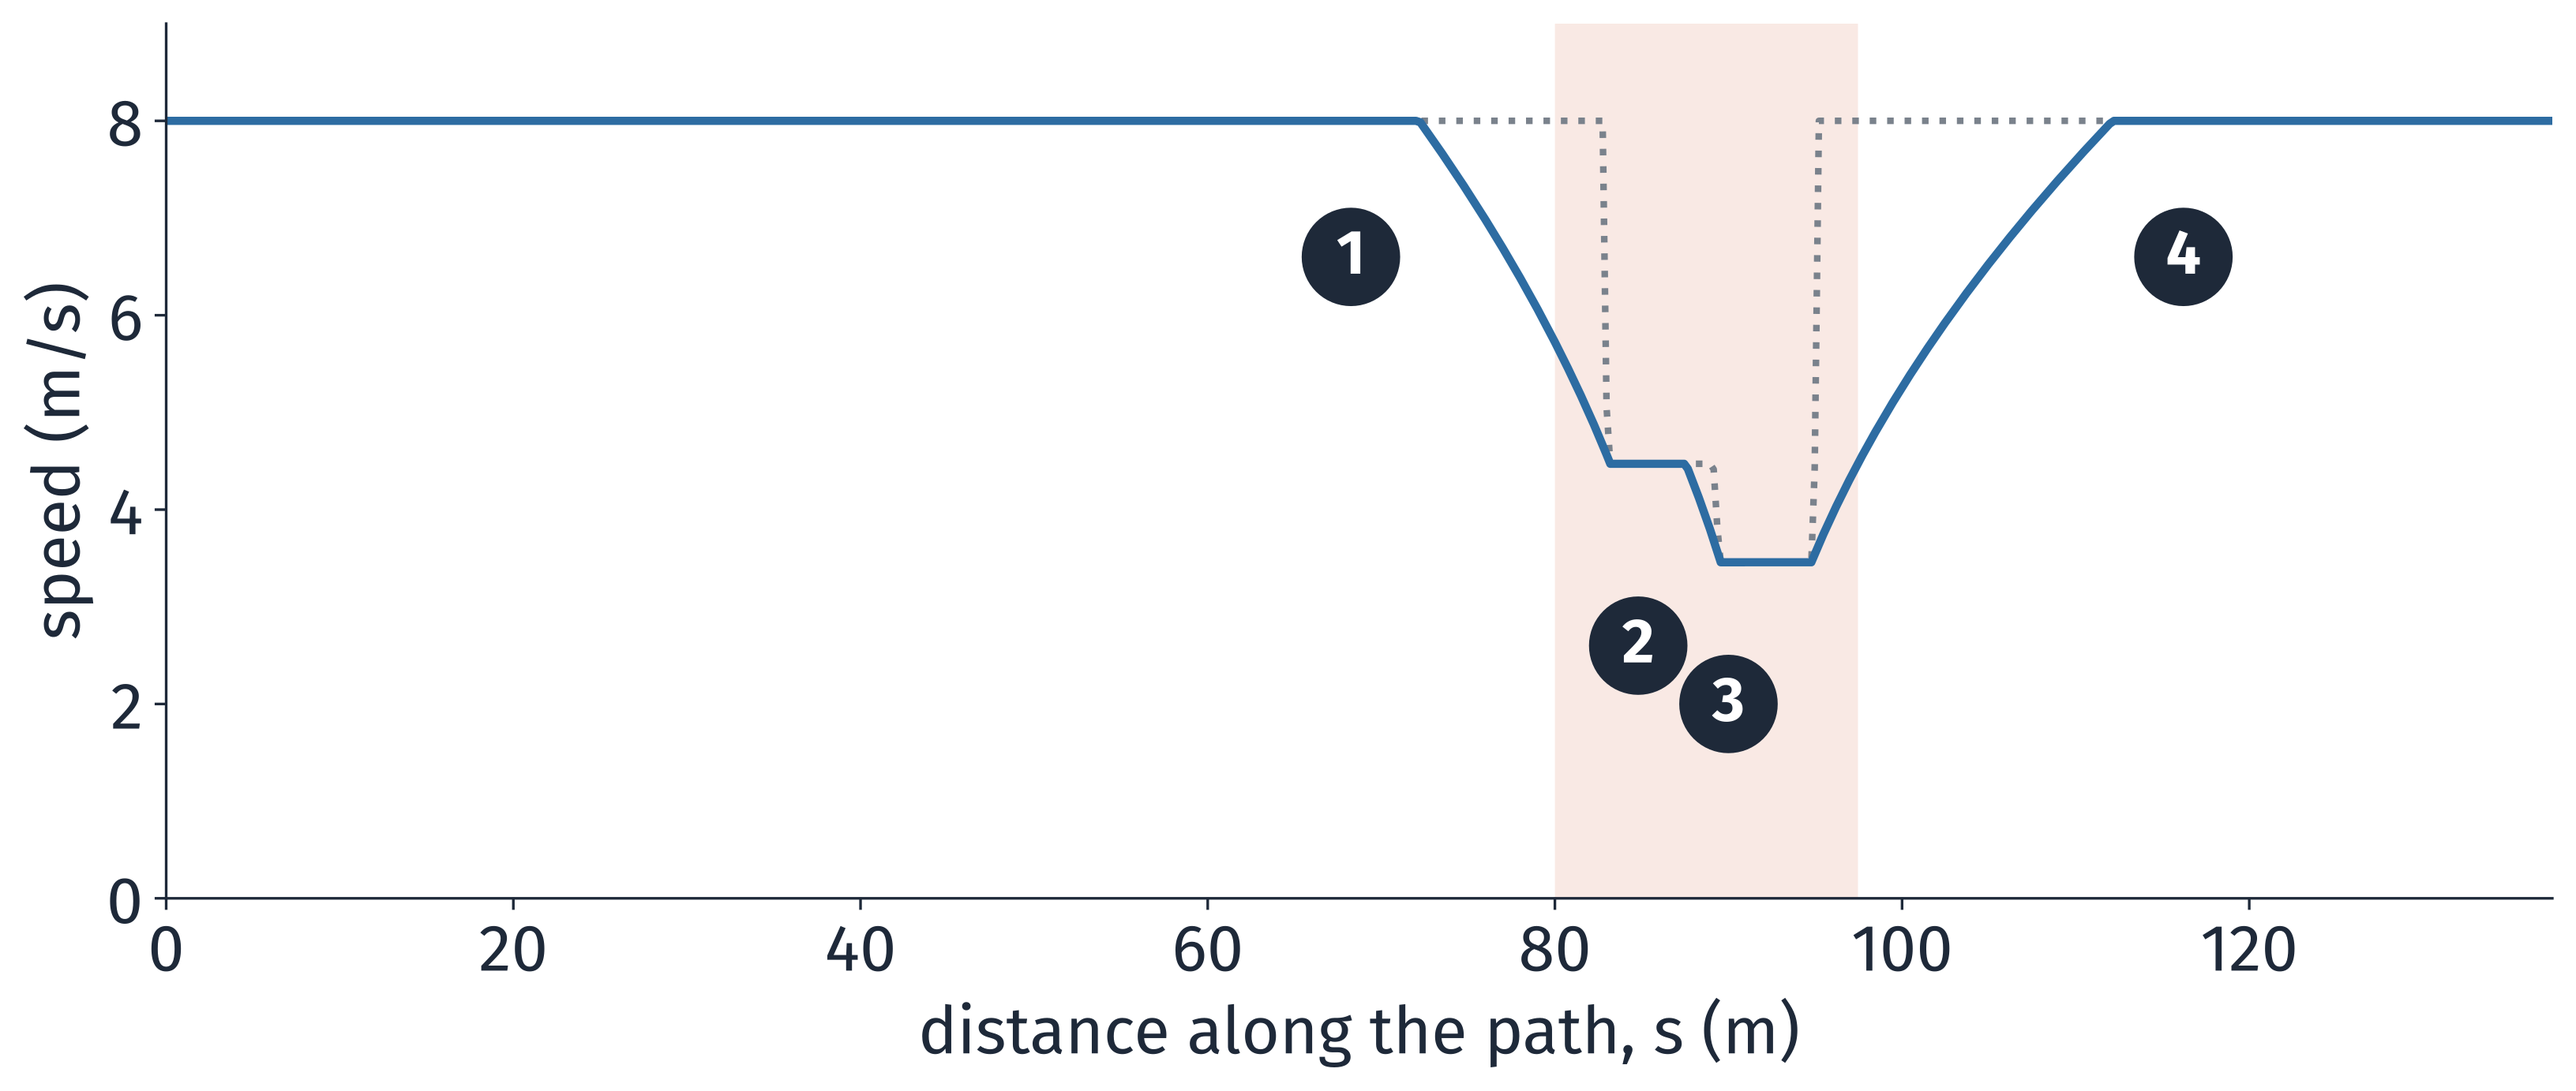
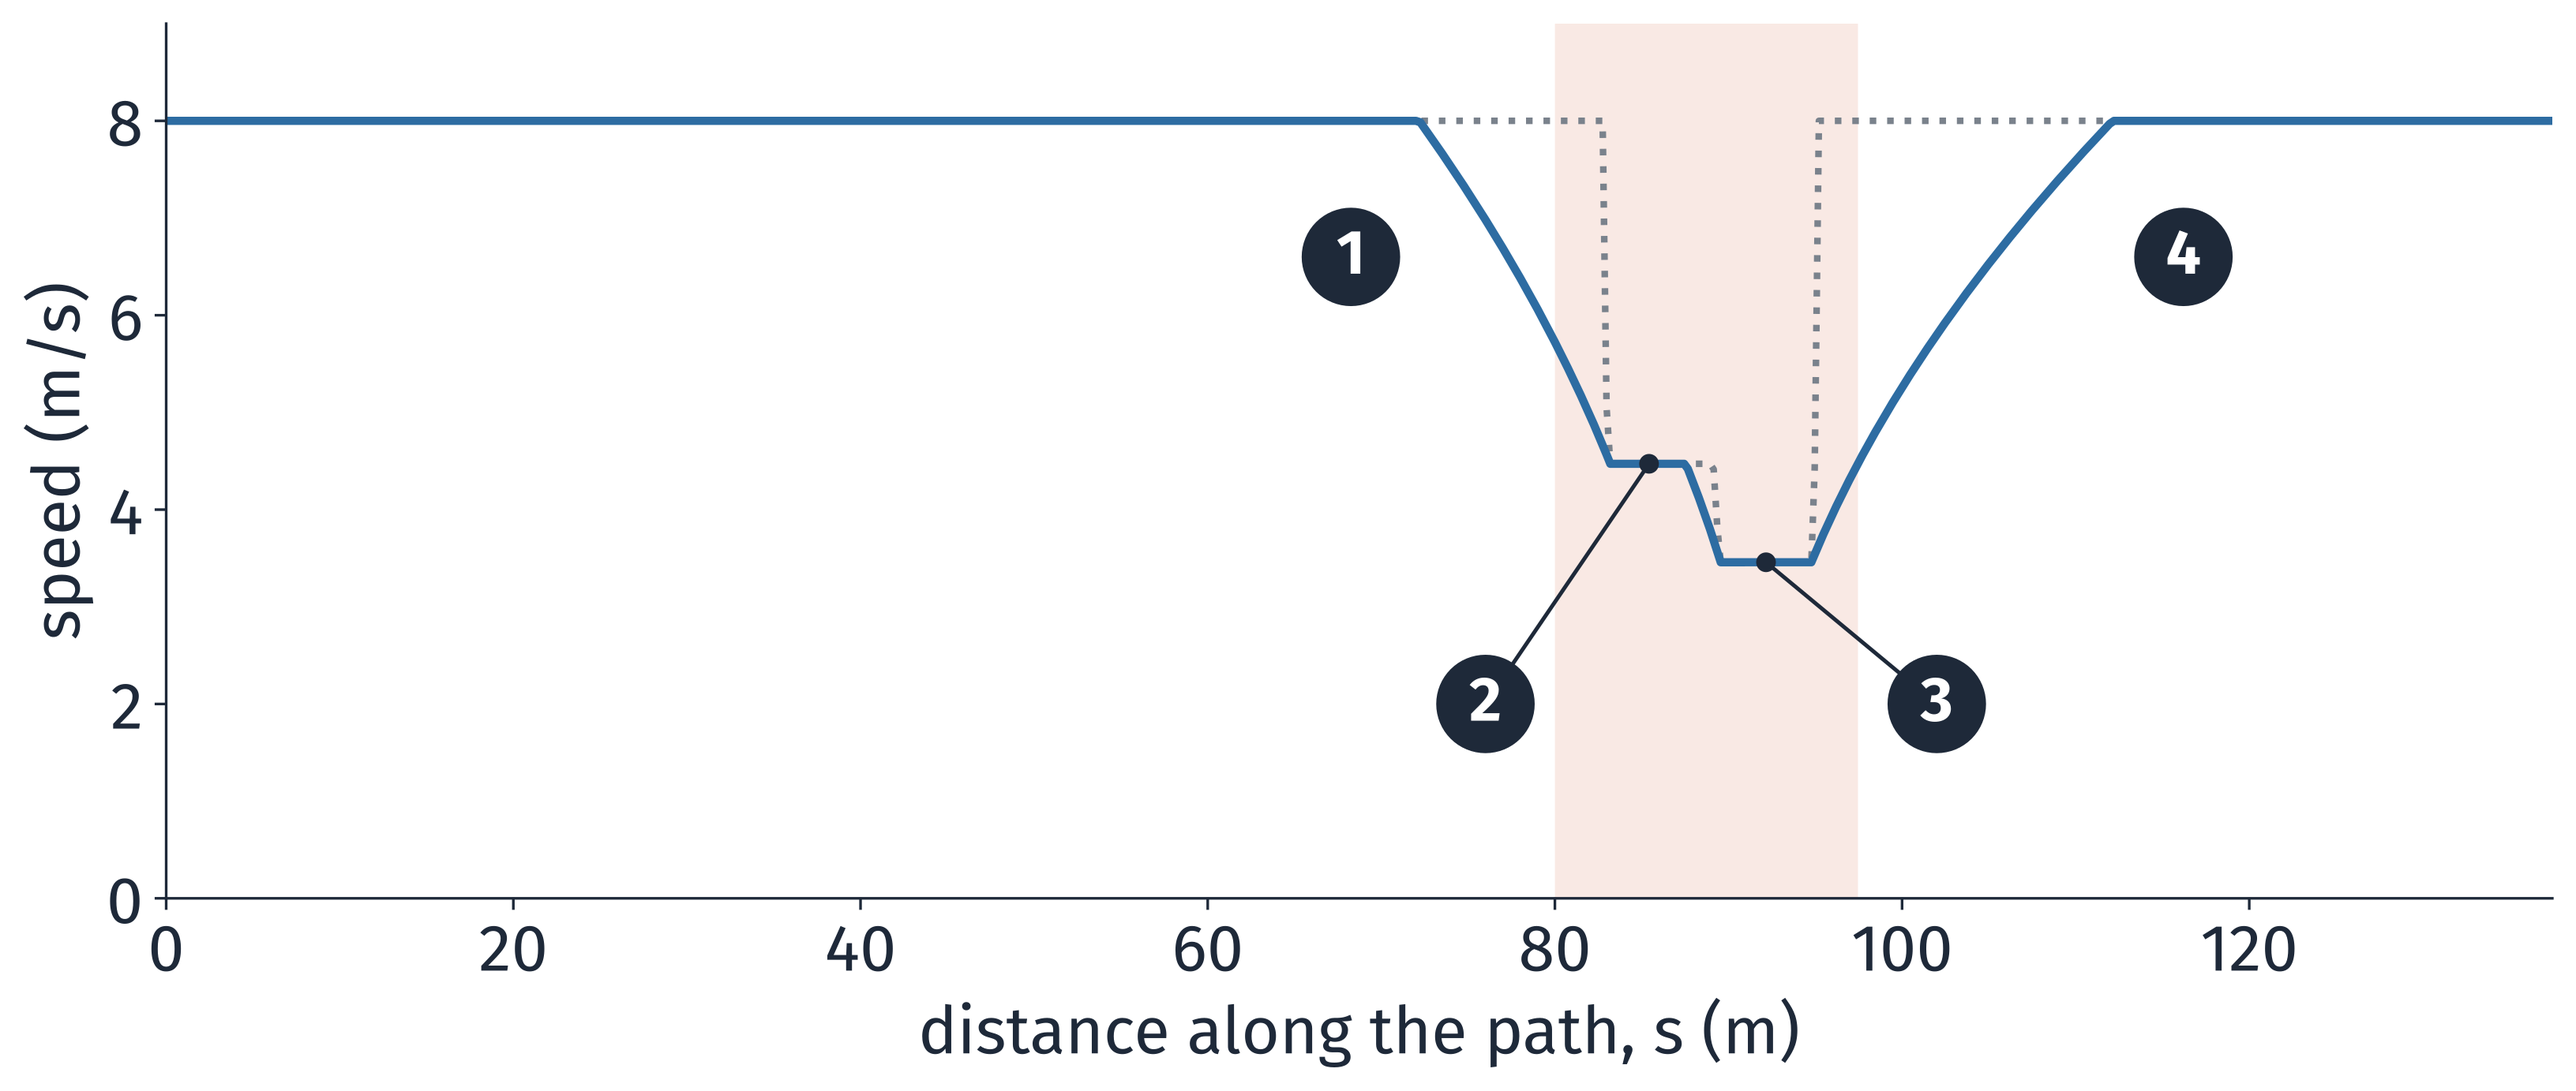
L10: speed profile tags 2 and 3 apart, with leader lines

Changed region(s): [[0.5572, 0.5286, 0.7738, 0.684], [0.681, 0.4975, 0.7119, 0.5286], [0.6191, 0.4042, 0.65, 0.4353]]

diff --git a/docs/source/lectures/lecture10/l10_lecture.rst b/docs/source/lectures/lecture10/l10_lecture.rst
@@ -2803,7 +2803,7 @@ Speed Profile, Step 2: Brake Before the Curve, Speed Up After It
 ~~~~~~~~~~~~~~~~~~~~~~~~~~~~~~~~~~~~~~~~~~~~~~~~~~~~~~~~~~~~~~~~
 
 .. figure:: /_static/images/L10/speed_profile.png
-   :alt: A graph of speed in meters per second against the distance along the path. A dotted gray limit line sits at 8, drops to about 4.5 on the first arc and 3.46 on the second, and returns to 8. The blue profile holds 8, falls along a curve from about 72 meters (dark tag 1), holds 4.47 on the first arc (tag 2) and 3.46 on the second (tag 3), then rises back to 8 by about 112 meters (tag 4). The junction lane is shaded orange.
+   :alt: A graph of speed in meters per second against the distance along the path. A dotted gray limit line sits at 8, drops to about 4.5 on the first arc and 3.46 on the second, and returns to 8. The blue profile holds 8, falls along a curve from about 72 meters (dark tag 1), holds 4.47 on the first arc and 3.46 on the second; dark tags 2 and 3 sit below the dip, each joined by a thin line to the middle of its level stretch, then rises back to 8 by about 112 meters (tag 4). The junction lane is shaded orange.
    :width: 85%
    :align: center
 
